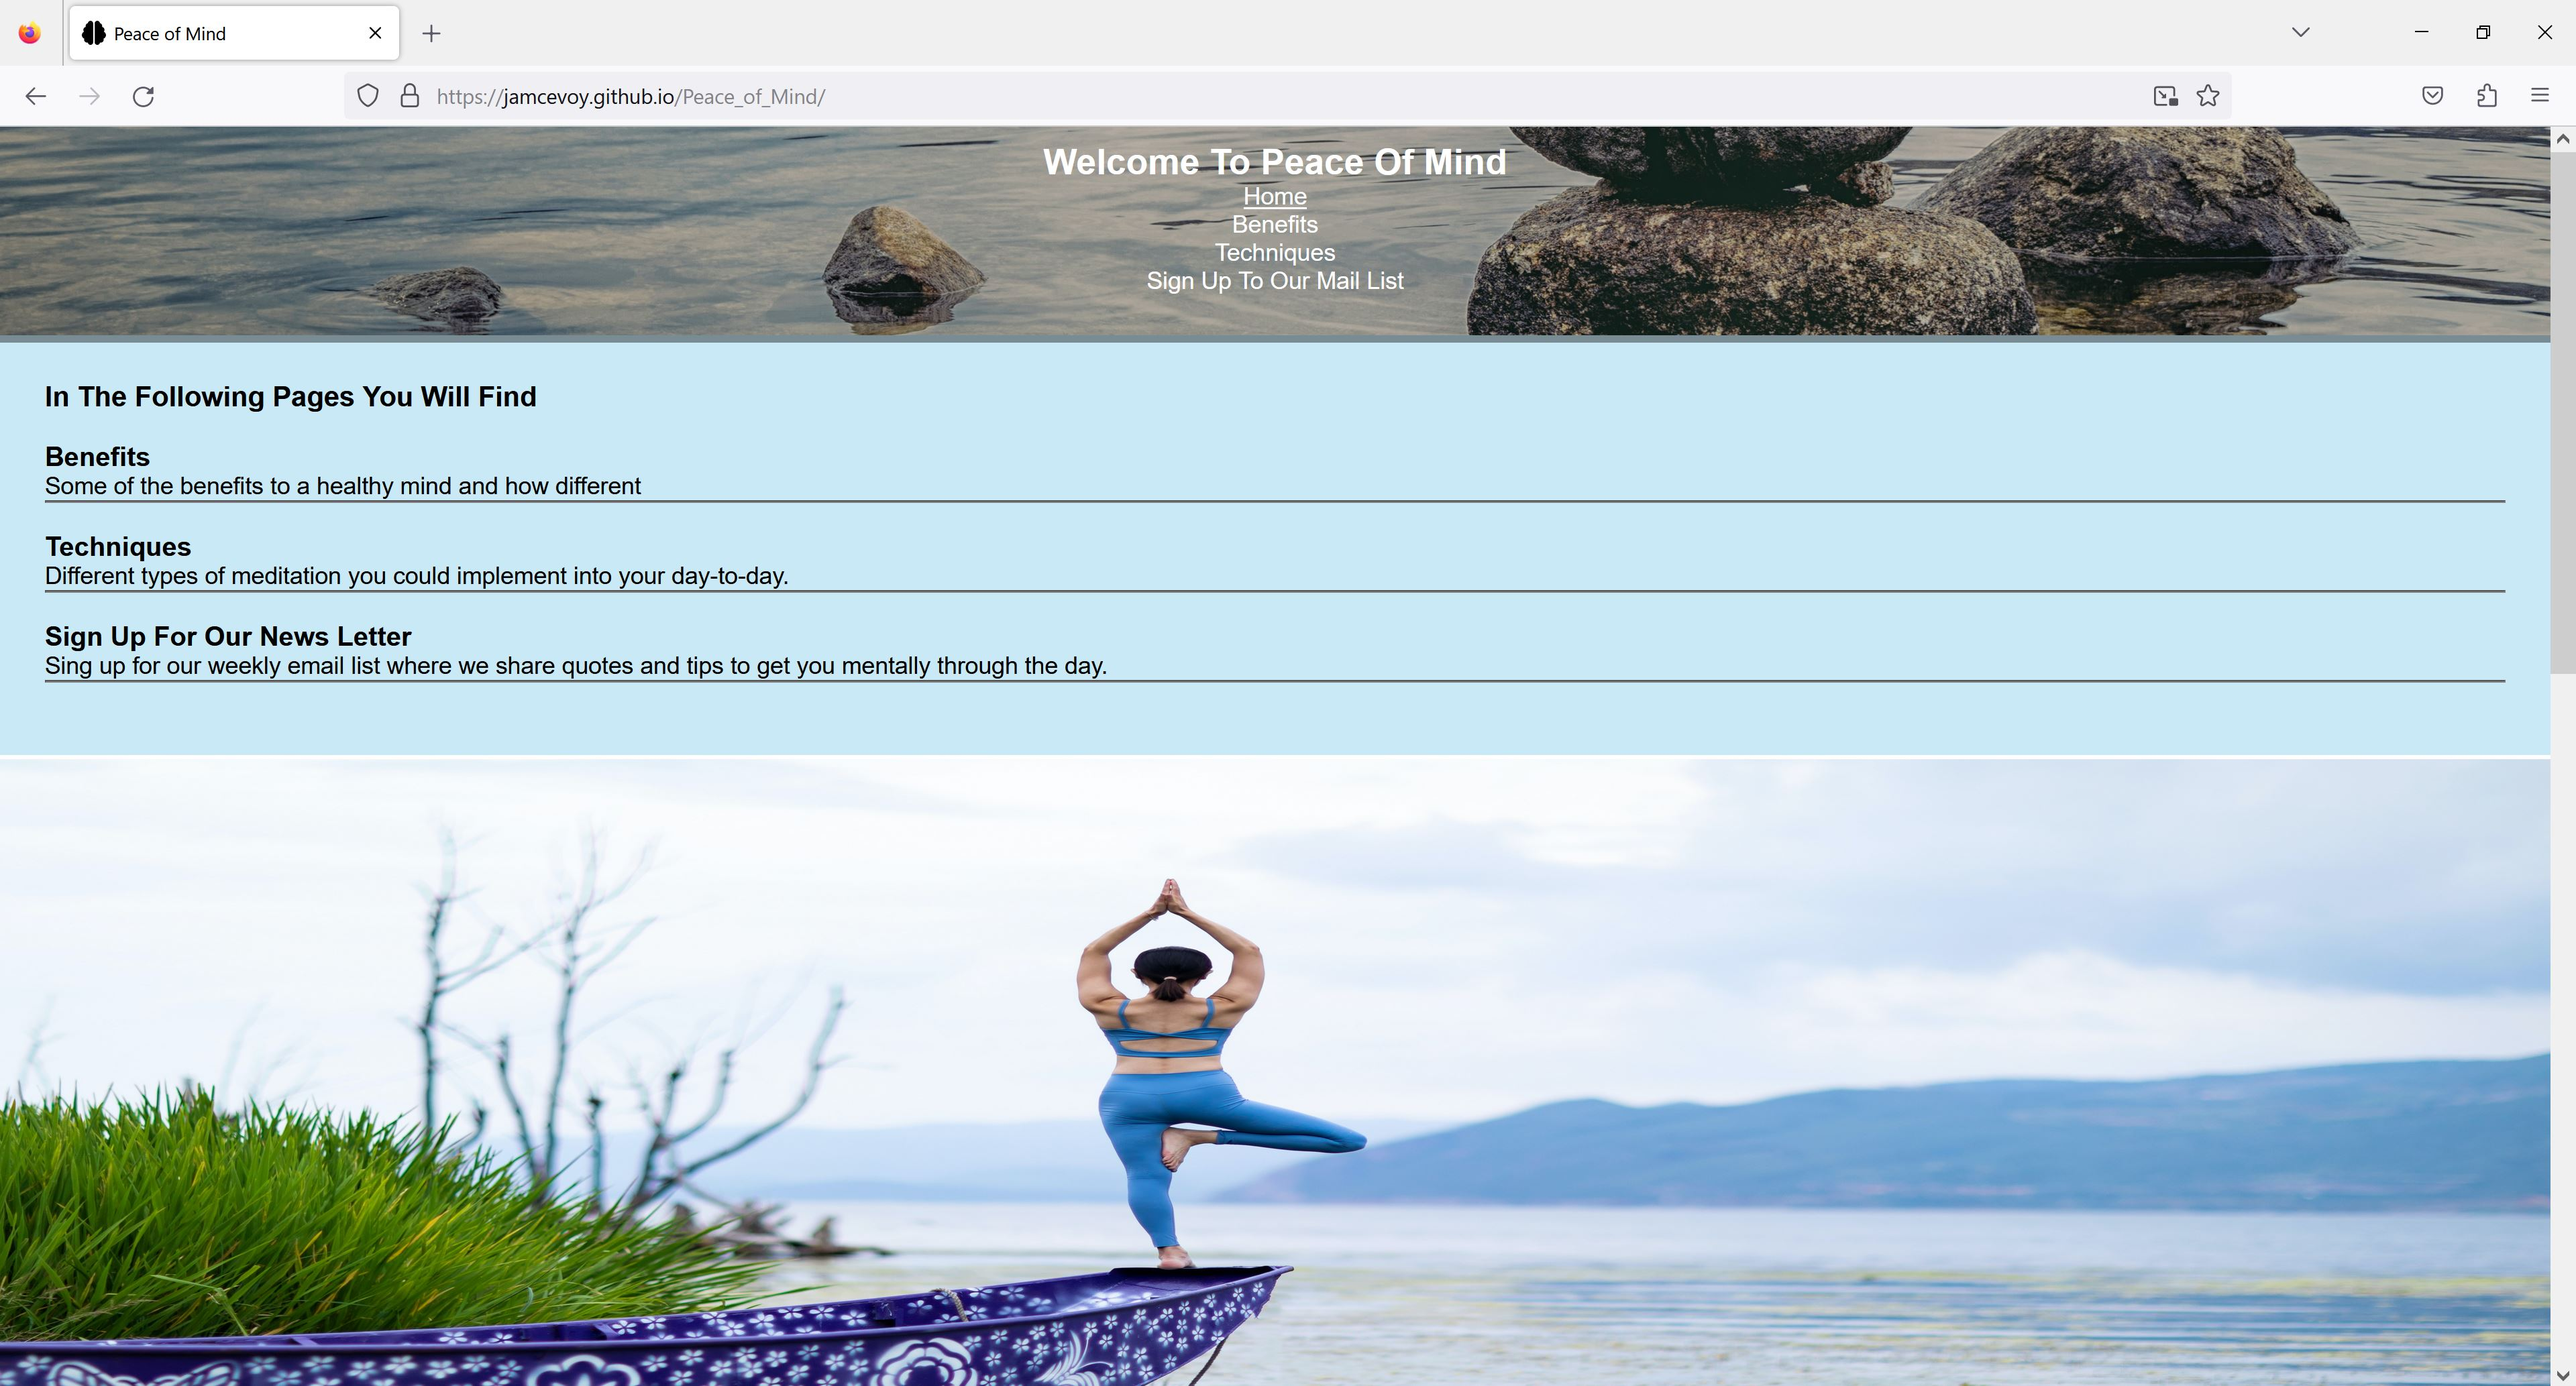
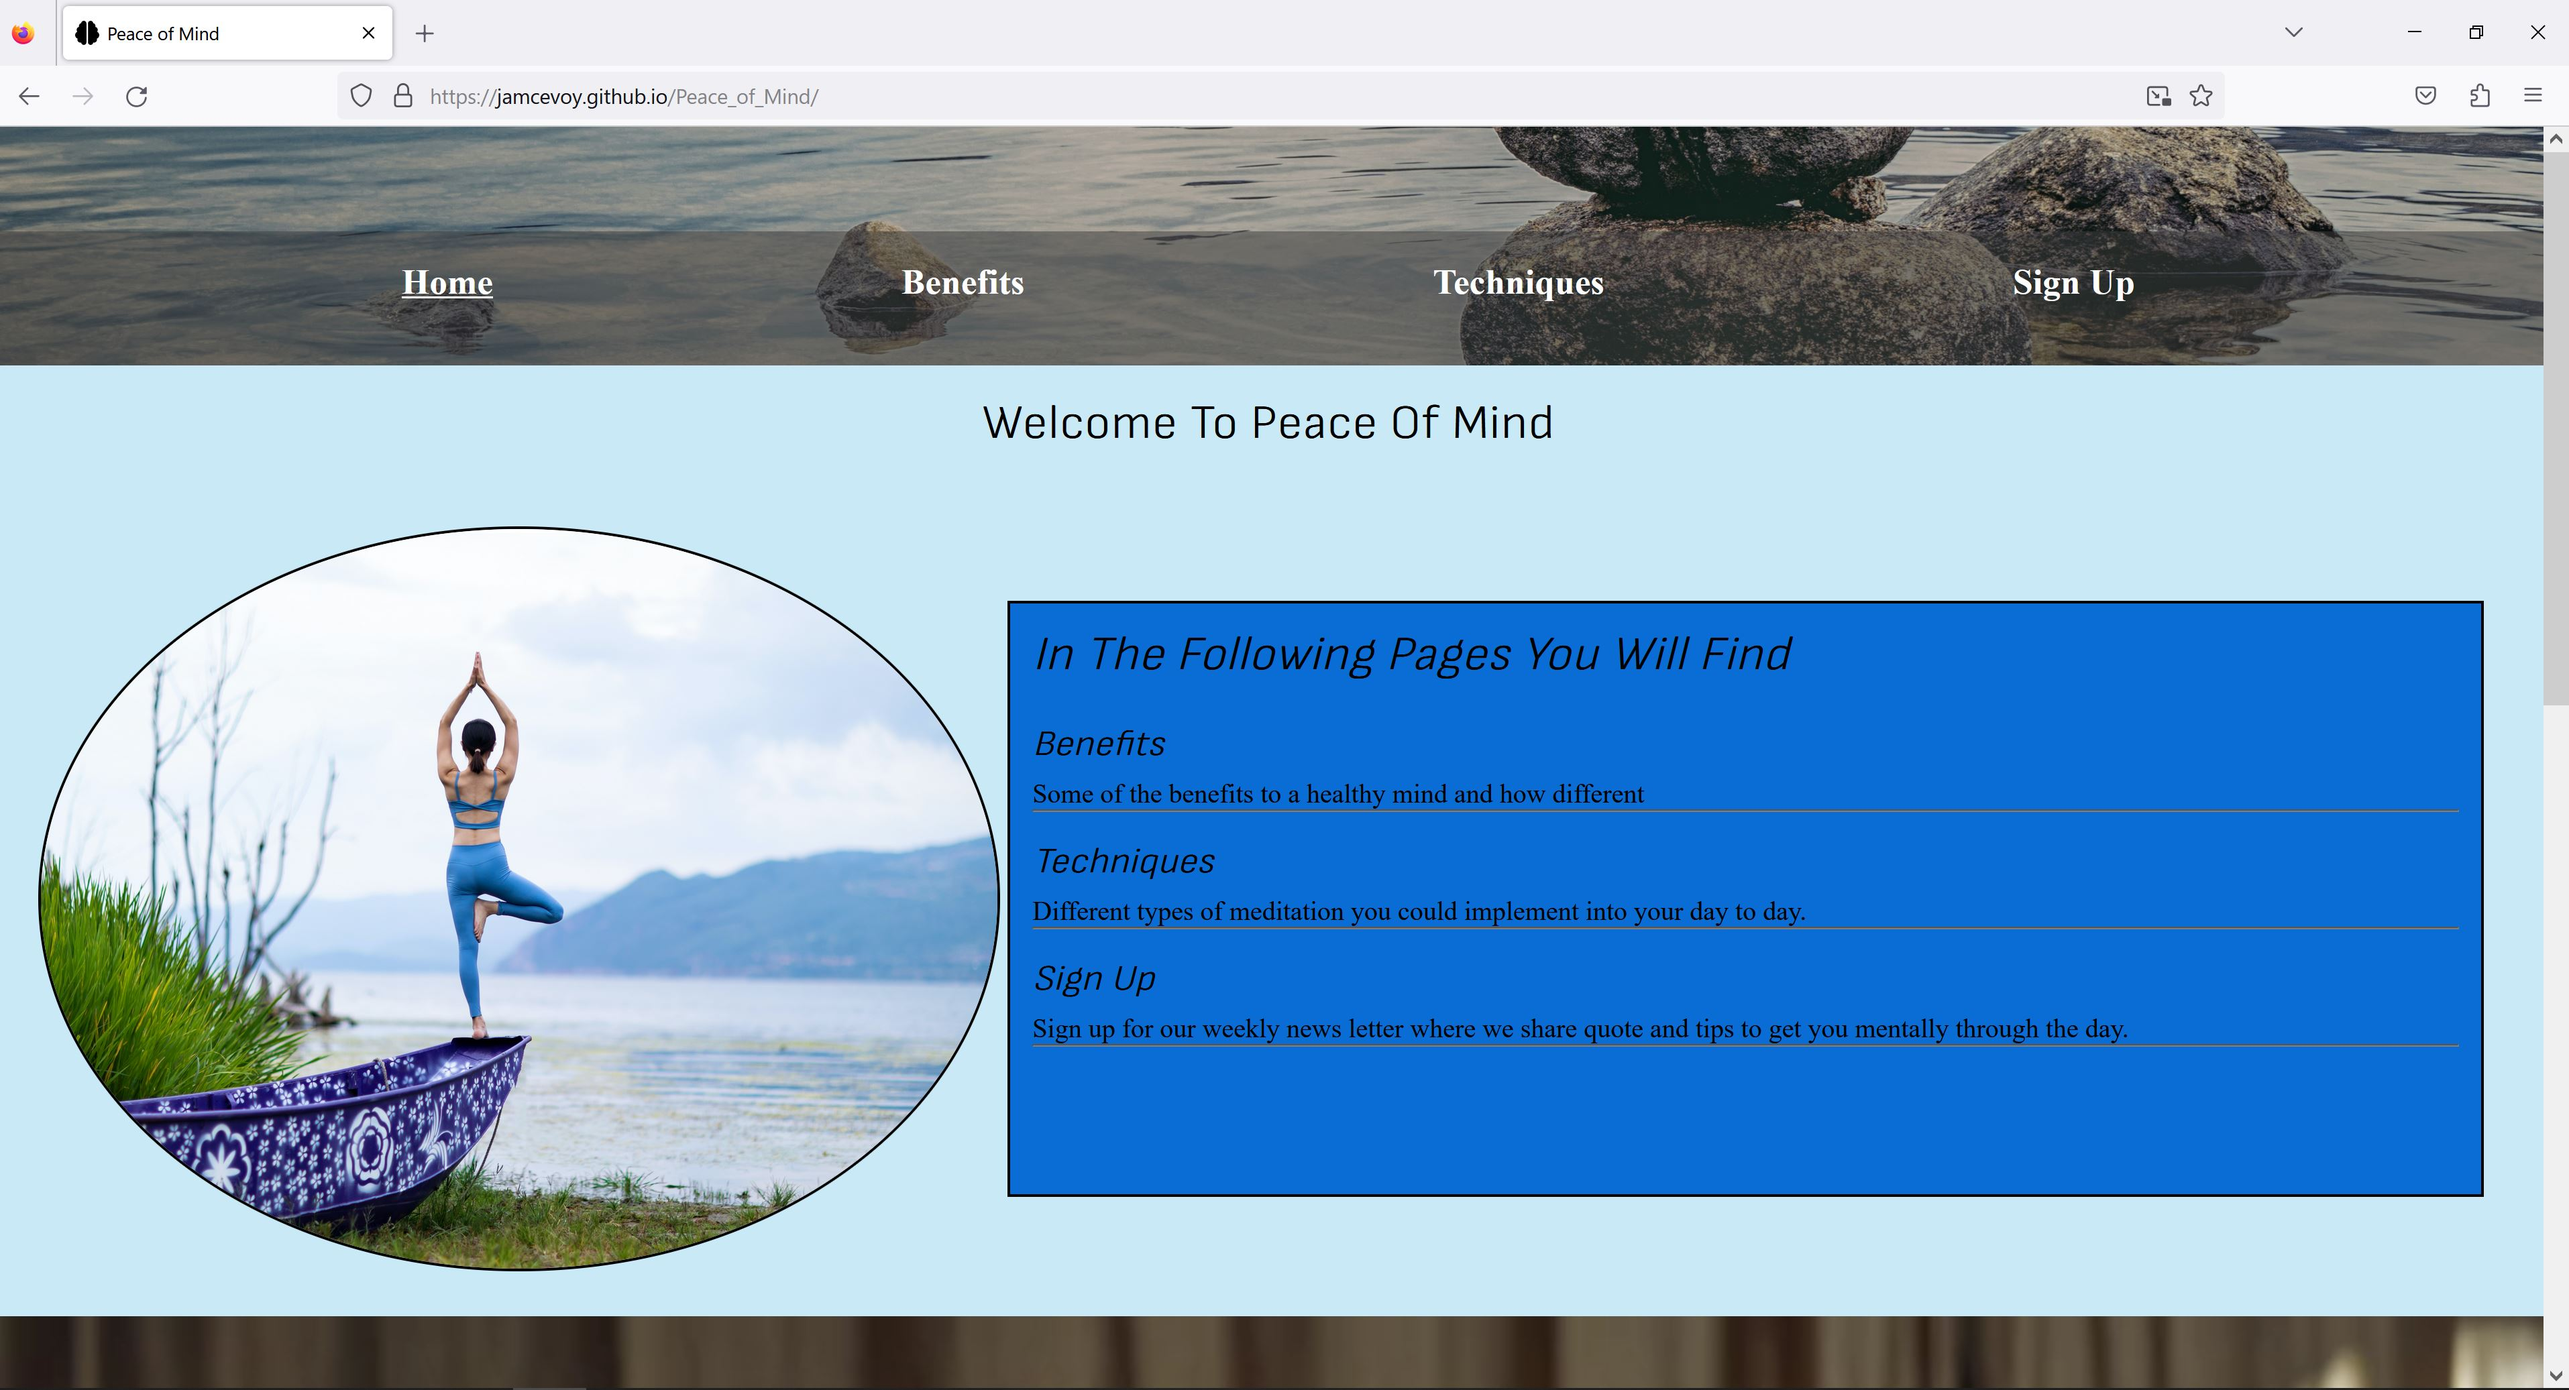
News images for readme, Added background to form for better ux

diff --git a/assets/css/style.css b/assets/css/style.css
@@ -144,14 +144,14 @@ video {
 
 
 #main-form {
-    padding: 40px 50px 50px;
+    padding: 0;
     text-align: center;
     justify-content: center;
     font-size: small;
     width: 100%;
     height: 900px;
-  background-image: url(../images/stones.jpg);
-  background-size: cover;
+    background-image: url(../images/stones.jpg);
+    background-size: cover;
   
 }
 
@@ -164,7 +164,7 @@ video {
     height: auto;  
   color: #fafafa;
   font-size: small;
-  background-color: rgba(60, 60, 60, .6);
+  
 
 }
 
@@ -172,6 +172,7 @@ video {
     display: flex;
     align-content: center;
     justify-content: center;
+    background-color: rgba(60, 60, 60, .6);
 }
 
 #submit {
@@ -314,7 +315,7 @@ footer {
     }
 
   #email-form {
-      padding: 10px 30px 0;
+      padding: 200px;
       align-items: center;
       display: flex;
       flex-direction: column;
@@ -323,9 +324,6 @@ footer {
 
   }
 
-  #main-form {
-      padding: 100px;
-  }
 
 }
 
@@ -393,7 +391,6 @@ footer {
 @media (min-width: 768px) and (min-height: 1024px) {
     #main-form {
         height: 900px;
-        padding: 200px;
 
     }
 }

diff --git a/signup.html b/signup.html
@@ -23,7 +23,7 @@
                         <li><a href="index.html">Home</a></li>
                         <li><a href="benefits.html">Benefits</a></li>
                         <li><a href="techniques.html">Techniques</a></li>
-                        <li class="current"><a href="signup.html">Sign Up To Our Mail List</a></li>
+                        <li class="current"><a href="signup.html">Sign Up</a></li>
                     </ul>
                 </nav>
             </div>
